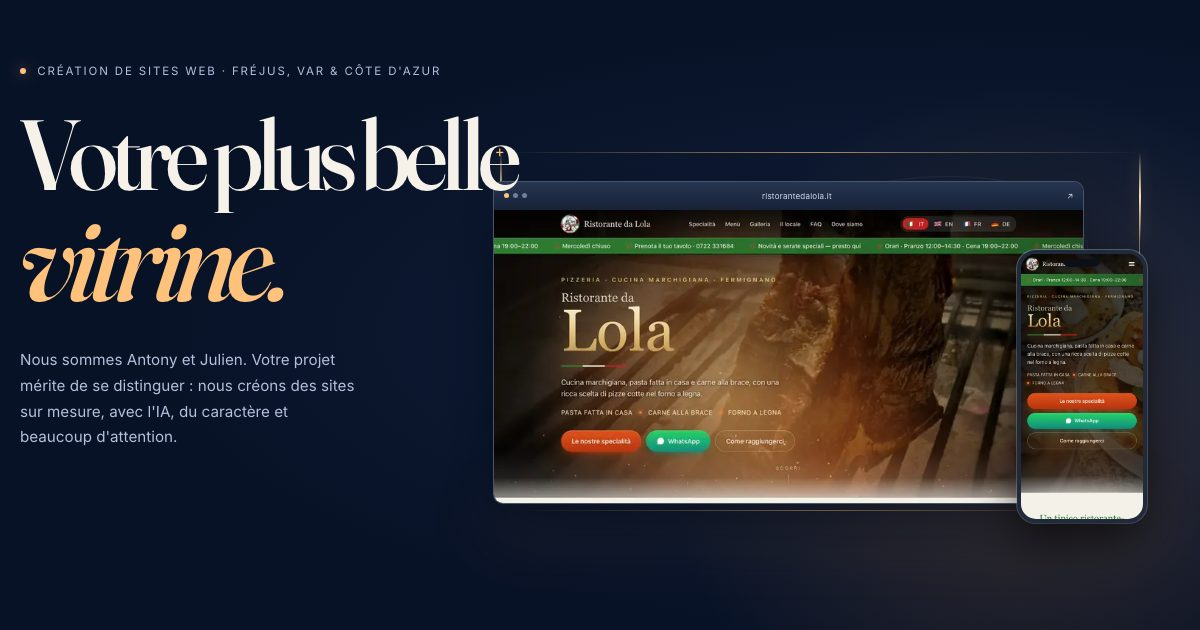
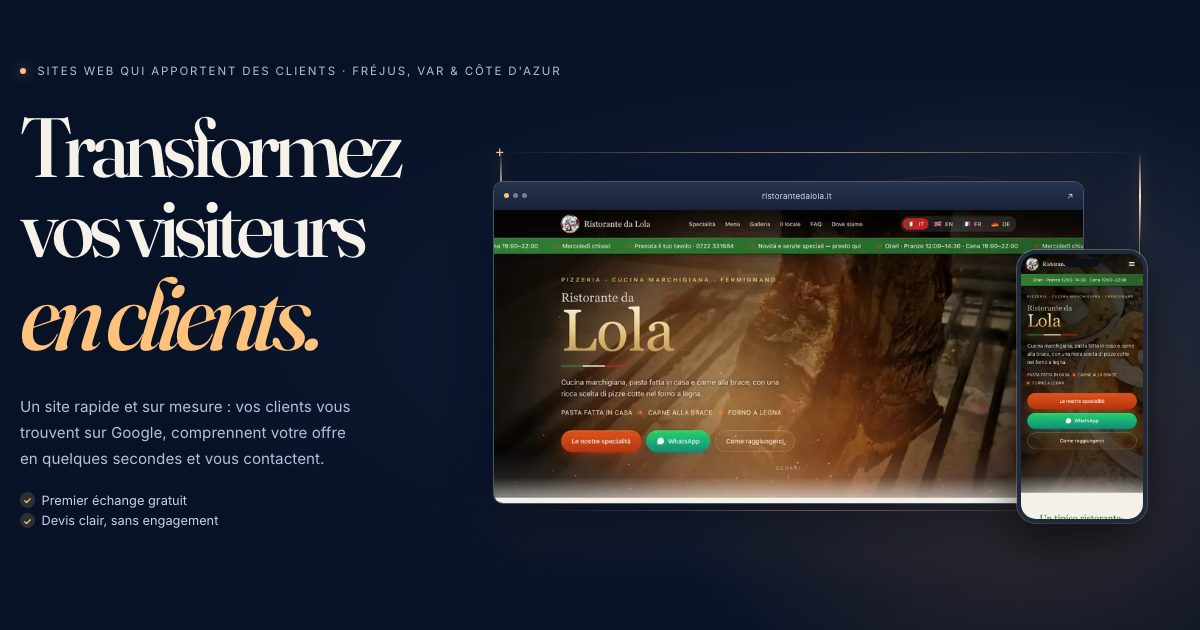
Make the hero copy commercial in all three languages
- Headline "Transformez vos visiteurs en clients" (EN/IT equivalents)
- Location back in the eyebrow; one-sentence benefit-led intro
- Main button "Obtenir mon devis gratuit" site-wide; "Voir les 25 sites en ligne"
- Reassurance row: free first call, clear quote with no obligation
- Headline wraps within the space left of the showcase at every desktop width
- Share images re-rendered from the new hero

Changed region(s): [[0.0, 0.181, 0.4317, 0.754], [0.0308, 0.0905, 0.4625, 0.1206], [0.0, 0.7841, 0.185, 0.8444]]

diff --git a/src/i18n.ts b/src/i18n.ts
@@ -53,18 +53,18 @@ export const strings = {
     switchTo: "Français",
     switchLabel: "Voir le site en français",
     empty: "Nothing in the window yet.",
-    ogAlt: "The Vitrine: a lit shop window at dusk showing live websites, with the headline “Your best shop window.”",
+    ogAlt: "The Vitrine: a lit shop window at dusk showing live websites, with the headline “Turn visitors into customers.”",
     notFoundTitle: "This window is empty",
     notFoundText: "The page you were looking for isn't here, or it has moved.",
     notFoundCta: "Back to the sites",
     heroEyebrow: "Made-to-measure websites · French\u00a0Riviera\u00a0&\u00a0United\u00a0Kingdom",
-    heroLine1: "Your best",
-    heroAccent: "shop window",
-    heroLine2: "is online.",
+    heroLine1: "Turn visitors",
+    heroAccent: "into customers",
+    heroLine2: ".",
     heroSub:
-      "We're Antony and Julien. We use AI to design and build fast, beautiful websites for individuals, associations, institutions and businesses, in whatever languages your visitors speak.",
+      "We create fast, distinctive websites shaped around your business — designed to build trust, get found and bring in more enquiries.",
     heroCta: "See the {n} sites",
-    heroCta2: "Start your project",
+    heroCta2: "Get my free quote",
     heroProof: "{n} live sites · French Riviera · United Kingdom · Italy",
     heroPause: "Pause the slideshow",
     heroPlay: "Play the slideshow",
@@ -203,18 +203,18 @@ export const strings = {
     switchTo: "English",
     switchLabel: "View the site in English",
     empty: "La vitrine est encore vide.",
-    ogAlt: "The Vitrine : une vitrine éclairée à la tombée de la nuit, avec des sites en ligne et le titre « Votre plus belle vitrine. »",
+    ogAlt: "The Vitrine : une vitrine éclairée à la tombée de la nuit, avec des sites en ligne et le titre « Transformez vos visiteurs en clients. »",
     notFoundTitle: "Cette vitrine est vide",
     notFoundText: "La page que vous cherchez n'existe pas, ou elle a changé d'adresse.",
     notFoundCta: "Retour aux sites",
     heroEyebrow: "Création de sites vitrines · Var & Côte d'Azur",
-    heroLine1: "Votre plus belle",
-    heroAccent: "vitrine",
-    heroLine2: "est en ligne.",
+    heroLine1: "Transformez vos visiteurs",
+    heroAccent: "en clients",
+    heroLine2: ".",
     heroSub:
-      "Nous sommes Antony et Julien. Avec l'IA, nous concevons des sites rapides et soignés pour les particuliers, les associations, les institutions et les entreprises, dans toutes les langues dont vos visiteurs ont besoin.",
+      "Nous créons des sites rapides, distinctifs et pensés pour votre activité — pour inspirer confiance, être trouvé et générer plus de demandes.",
     heroCta: "Voir les {n} sites",
-    heroCta2: "Lancer votre projet",
+    heroCta2: "Obtenir mon devis gratuit",
     heroProof: "{n} sites en ligne · Côte d'Azur · Royaume-Uni · Italie",
     heroPause: "Mettre le diaporama en pause",
     heroPlay: "Relancer le diaporama",
@@ -353,18 +353,18 @@ export const strings = {
     switchTo: "Italiano",
     switchLabel: "Vedi il sito in italiano",
     empty: "La vetrina è ancora vuota.",
-    ogAlt: "The Vitrine: una vetrina illuminata al tramonto con siti web online e il titolo «La tua più bella vetrina.»",
+    ogAlt: "The Vitrine: una vetrina illuminata al tramonto con siti web online e il titolo «Trasforma i visitatori in clienti.»",
     notFoundTitle: "Questa vetrina è vuota",
     notFoundText: "La pagina che cerchi non esiste, oppure è stata spostata.",
     notFoundCta: "Torna ai siti",
     heroEyebrow: "Siti web su misura · Costa\u00a0Azzurra\u00a0e\u00a0Italia",
-    heroLine1: "La tua più bella",
-    heroAccent: "vetrina",
-    heroLine2: "è online.",
+    heroLine1: "Trasforma i visitatori",
+    heroAccent: "in clienti",
+    heroLine2: ".",
     heroSub:
-      "Siamo Antony e Julien. Con l'IA progettiamo e realizziamo siti veloci e belli per privati, associazioni, istituzioni e aziende, in tutte le lingue dei tuoi visitatori.",
+      "Creiamo siti veloci, distintivi e pensati per la tua attività — per ispirare fiducia, farti trovare e generare più richieste.",
     heroCta: "Guarda i {n} siti",
-    heroCta2: "Avvia il tuo progetto",
+    heroCta2: "Ricevi il preventivo gratuito",
     heroProof: "{n} siti online · Costa Azzurra · Regno Unito · Italia",
     heroPause: "Metti in pausa la presentazione",
     heroPlay: "Avvia la presentazione",
